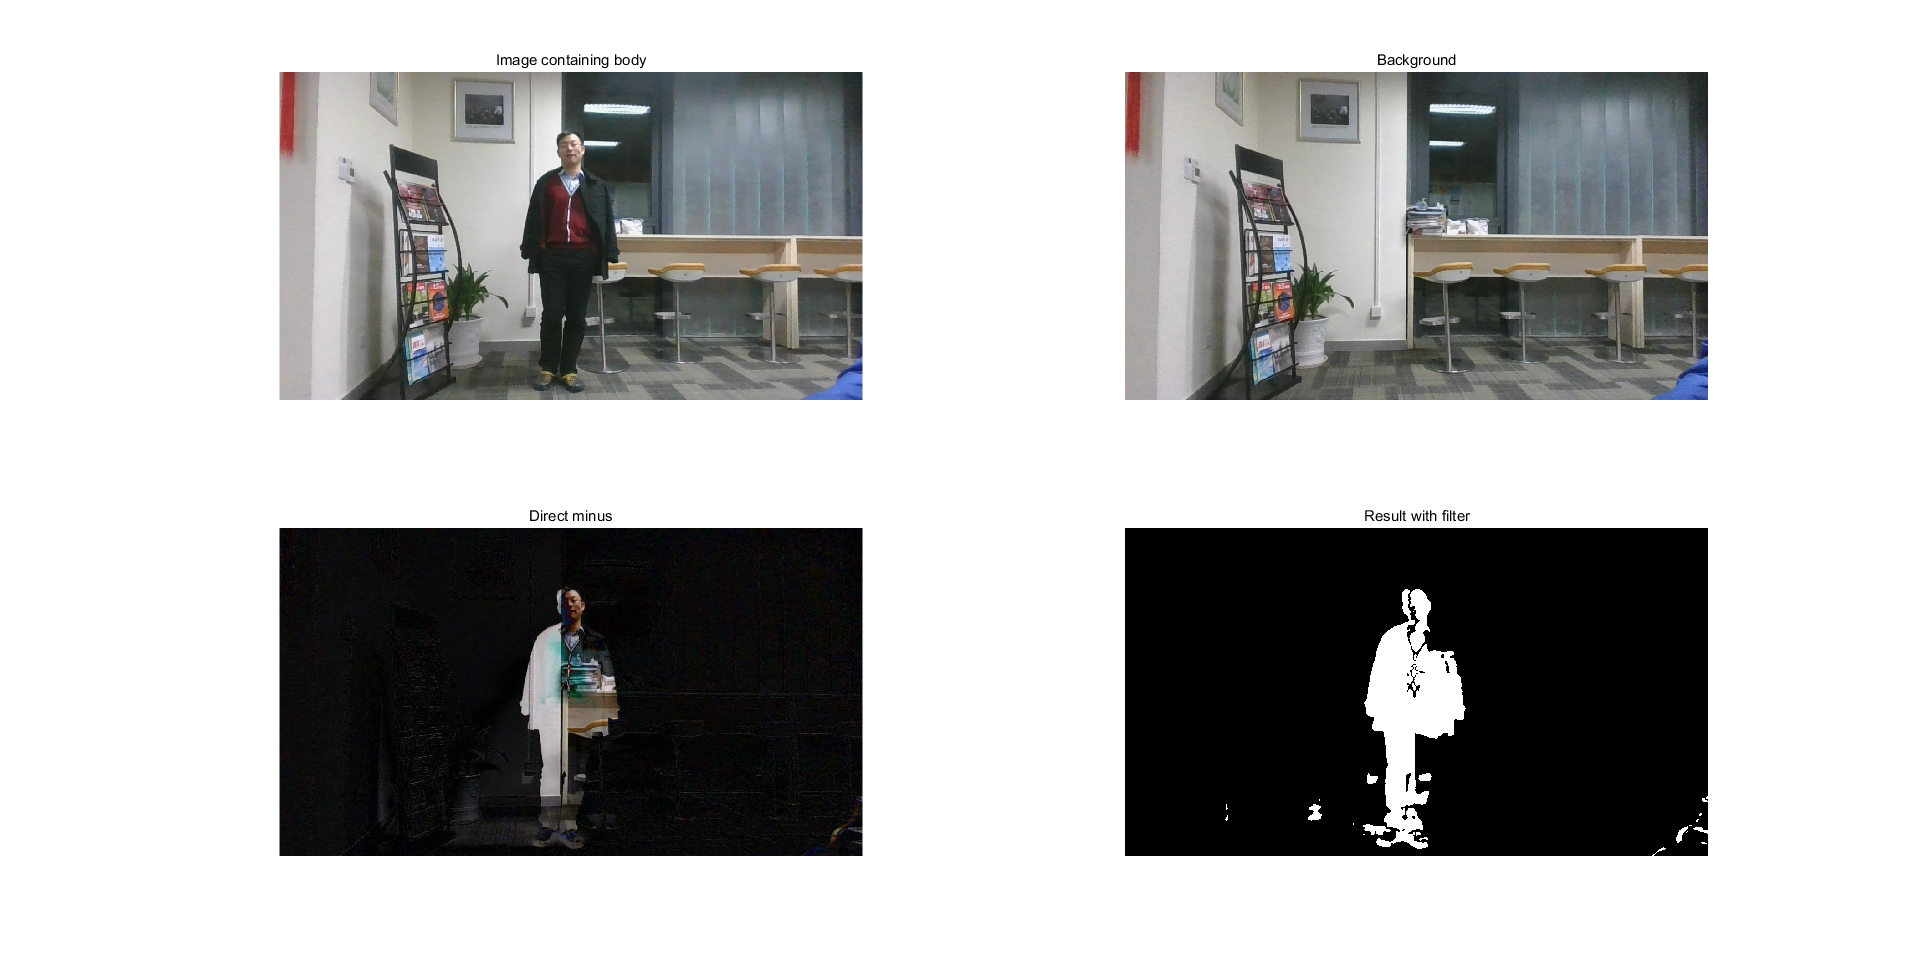
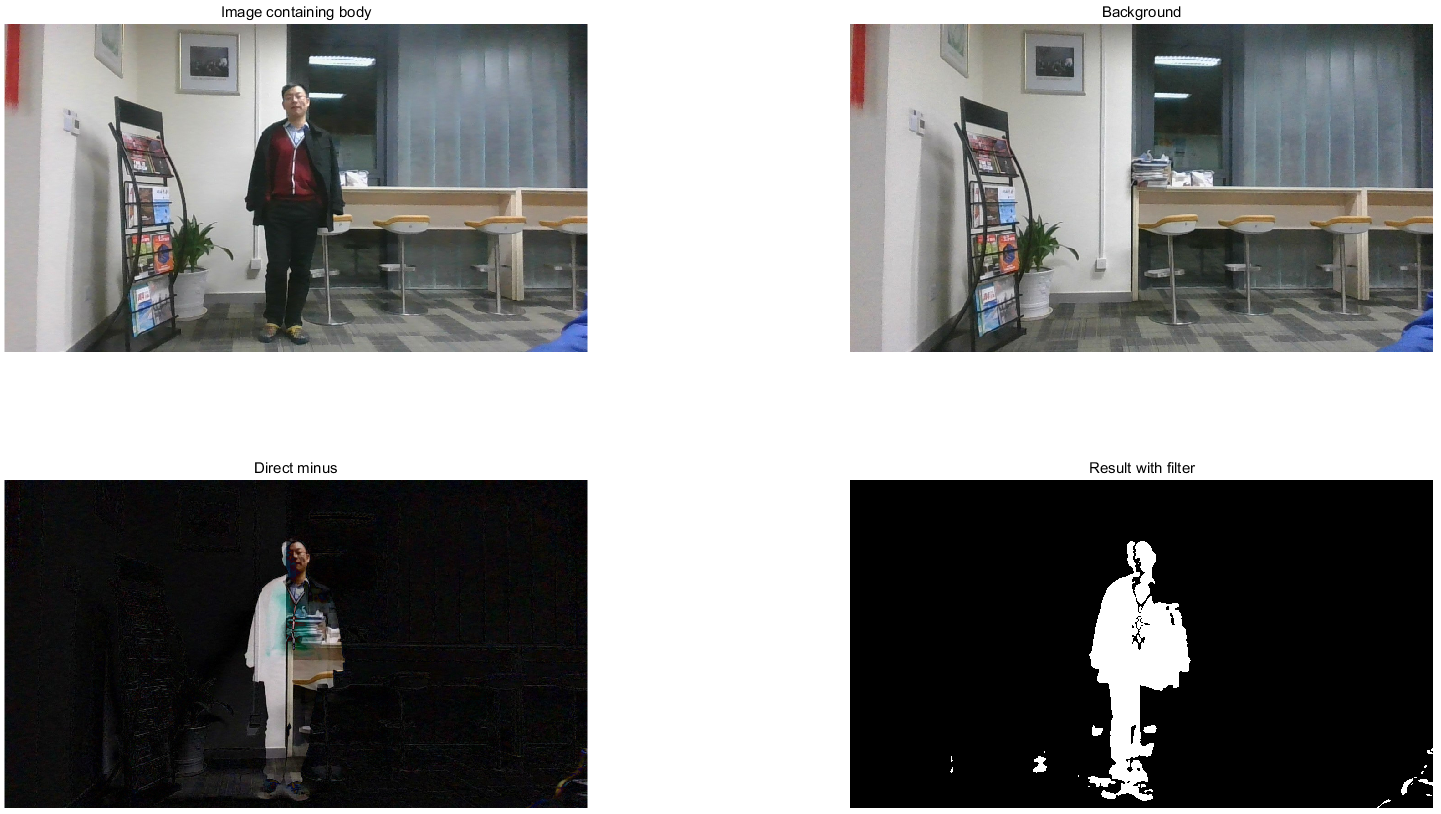
add getting camera scream and crop body figure

diff --git a/milestone/milestone.tex b/milestone/milestone.tex
@@ -66,32 +66,32 @@
 		To fix this, we are going to implement a system based on camera so that every one can play this game.
 		In our work, we will be using camera to track real person, it will also give player a bounding box (moving wall).
 		The box and player's outfit is compared by our system, the return should be a pass (True) or no pass (False).
-\section{Related Work}
-% If any, please fill in
+%\section{Related Work}
+% It seems that this part is not required in the milestone report.
+% IF have, please fill in
 \section{Technical Approach}
 \subsection{Getting camera stream}
-% if any, please fill in
+\par
+We make use of the Image Acquisition Toolbox to connect camera device to MATLAB and achieve real-time image processing and displaying. In general, we keep capturing an image from the camera stream, doing image processing and displaying the result on the screen as long as the camera is working.
+\par
+In detail, we first let MATLAB automatically set camera parameters and invoke the camera since the parameters are device dependent. Then a while loop is maintained to implement the primary procedure during the logging time of the camera.
+\par
+One of the obstacle we are facing now is that we can't add some pause time before the result is showed to the player. But it would be best if we give player some time to wait.
 \subsection{Crop out body}
 \par
-A simple but useful method has been implemented to detect the body. The principle is that given the camera is fixed, the only area has color changing on the image is the body part. Results are shown in fig. \ref{CropBody}
+A simple but useful method has been implemented to detect the body. The principle is that given the camera is fixed, the only area has color changing on the image is the body part.
 \par
 In detail, we take a photo of the backgroud first, then we subtract it by the images containing body. As the result, we would get a image with only the body part.
+% TODO, add some image here of raw body here.
 \begin{figure}[h]
 	\centering
-	\includegraphics[width=\linewidth]{./Pic/CropBody}
-	\caption{The top-left are image containing body, the top-right are background, the bottom-left are result of their directly minus, the bottom-right are the body filtered out noise by thresholding using RGB 3 channel}
-	\label{CropBody}
+	\includegraphics[width=\linewidth]{./Pic/CropBody.png}
+	\caption{Crop Body}
 \end{figure}
 \par
 Due to the noise caused by camera shaking, we use a threshold to filter out noise. The first version is implmented on the gray value. In other words, the RGB image is first converted to a gray image, then applying the threshold to get the body.
 \par
 However, that method brings a problem. If the background is purely green, and the body is purely red. In gray images, they are the same. So in version 2, instead of using the gray image, the body is obtained by comparing RGB raw image. If any of the 3 channel changes a lot, it could be part of the body.
-
-\subsection{Generate Mask}
-% if any, please fill in
-
-\subsection{Pass or not}
-% if any, please fill in
 
 \section{Milestones Achieved So Far}
 
